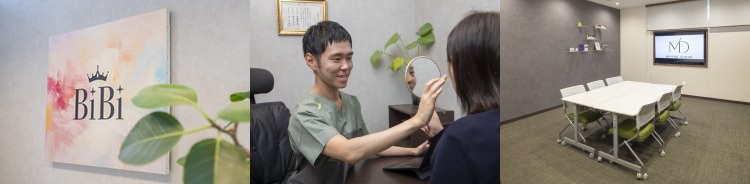
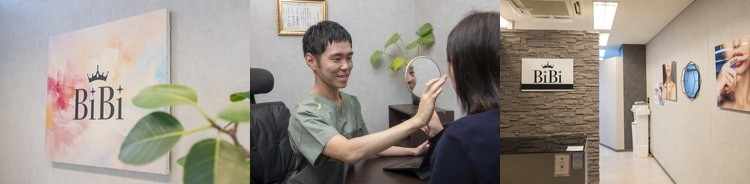
Figmaの最新内容に合わせて、アクセス・キャンペーン・写真を更新する

Changed region(s): [[0.644, 0.0, 1.0, 1.0]]

diff --git a/index.html b/index.html
@@ -215,7 +215,10 @@
                 <span class="campaign__line"></span>
               </div>
               <div class="campaign__body">
-                <p class="campaign__target">LINEご登録者限定</p>
+                <div class="campaign__limit">
+                  <p class="campaign__limitLabel">期間限定</p>
+                  <p class="campaign__limitDate">11月1日〜11月30日</p>
+                </div>
                 <div class="campaign__prices">
                   <p class="campaign__before">
                     <span class="campaign__beforeNum">¥495,000</span><small class="campaign__beforeTax">(税込)</small>
@@ -235,7 +238,7 @@
                   class="campaign__badge"
                 />
               </div>
-              <p class="campaign__note">※2026年11月1日〜2026年11月30日の期間に限る</p>
+              <p class="campaign__note">※LINEご登録者限定</p>
               <span class="campaign__line campaign__line--bottom"></span>
             </div>
           </div>
@@ -491,7 +494,7 @@
               />
               <div class="reason-card__body">
                 <h3 class="reason-card__title">卒業後も永久サポート付き！</h3>
-                <p class="reason-card__text reason-card__text--black">卒業後も、技術や働き方についてLINEで無料相談ができます。相談期間に制限はなく、活動を始めてから生まれる疑問や不安にも寄り添い、継続してサポートします。</p>
+                <p class="reason-card__text reason-card__text--black">卒業後も、技術や働き方について無料相談ができます。相談期間に制限はなく、活動を始めてから生まれる疑問や不安にも寄り添い、継続してサポートします。</p>
               </div>
             </div>
 
@@ -921,7 +924,10 @@
                 <span class="campaign__line"></span>
               </div>
               <div class="campaign__body">
-                <p class="campaign__target">LINEご登録者限定</p>
+                <div class="campaign__limit">
+                  <p class="campaign__limitLabel">期間限定</p>
+                  <p class="campaign__limitDate">11月1日〜11月30日</p>
+                </div>
                 <div class="campaign__prices">
                   <p class="campaign__before">
                     <span class="campaign__beforeNum">¥495,000</span><small class="campaign__beforeTax">(税込)</small>
@@ -943,7 +949,7 @@
                   class="campaign__badge"
                 />
               </div>
-              <p class="campaign__note">※2026年11月1日〜2026年11月30日の期間に限る</p>
+              <p class="campaign__note">※LINEご登録者限定</p>
               <span class="campaign__line campaign__line--bottom"></span>
             </div>
           </div>
@@ -1482,9 +1488,9 @@
 
           <img
             src="img/top/access_img.jpg"
-              loading="lazy"
-              decoding="async"
-            alt="NLC心斎橋 外観"
+            loading="lazy"
+            decoding="async"
+            alt="心斎橋スクールの入口"
             class="access__thumb"
           />
 
@@ -1500,10 +1506,19 @@
                   alt=""
                   class="access__icon"
                 />
-                <p class="access__text">
-                  大阪府大阪市中央区南船3丁目7-27<br />
-                  NLC心斎橋 3I
-                </p>
+                <div class="access__detail">
+                  <p class="access__text">
+                    大阪府大阪市中央区南船3丁目7-27<br />
+                    NLC心斎橋 3I
+                  </p>
+                  <a
+                    class="access__map"
+                    href="https://www.google.com/maps/search/?api=1&amp;query=%E5%A4%A7%E9%98%AA%E5%BA%9C%E5%A4%A7%E9%98%AA%E5%B8%82%E4%B8%AD%E5%A4%AE%E5%8C%BA%E5%8D%97%E8%88%B93%E4%B8%81%E7%9B%AE7-27+NLC%E5%BF%83%E6%96%8E%E6%A9%8B"
+                    target="_blank"
+                    rel="noopener noreferrer"
+                    >Googleマップ ＞</a
+                  >
+                </div>
               </div>
               <div class="access__item">
                 <img

diff --git a/style.css b/style.css
@@ -581,16 +581,31 @@ summary::-webkit-details-marker {
   align-items: center;
   gap: 16px;
 }
-.campaign__target {
-  font-size: 1.8rem;
-  font-weight: 500;
-  line-height: 1;
+.campaign__limit {
+  display: flex;
+  flex-direction: column;
+  align-items: center;
+  gap: 4px;
+}
+.campaign__limitLabel {
+  padding: 2px 6px;
+  font-size: 1.6rem;
+  font-weight: 600;
+  line-height: 1.1;
+  color: #216ca4;
+  background-color: #fff;
+}
+.campaign__limitDate {
+  font-size: 2rem;
+  font-weight: 600;
+  line-height: 1.1;
 }
 .campaign__prices {
   display: flex;
   flex-direction: column;
   align-items: center;
   gap: 4px;
+  margin-right: 96px;
 }
 .campaign__before {
   position: relative;
@@ -633,16 +648,15 @@ summary::-webkit-details-marker {
 }
 .campaign__badge {
   position: absolute;
-  top: -29px;
-  left: 264px;
-  width: 90.5px;
+  top: 26px;
+  left: 265px;
+  width: 98px;
 }
 .campaign__note {
-  font-size: 1.2rem;
-  font-weight: 300;
+  font-size: 1.4rem;
+  font-weight: 500;
   line-height: 1;
   text-align: center;
-  white-space: nowrap;
 }
 
 /* ============================================ */
@@ -2017,18 +2031,32 @@ summary::-webkit-details-marker {
 }
 .access__item {
   display: flex;
+  align-items: flex-start;
   gap: 16px;
 }
 .access__icon {
   flex-shrink: 0;
   width: 16px;
+  height: 23px;
 }
 .access__item + .access__item .access__icon {
   width: 17px;
+  height: 24px;
+}
+.access__detail {
+  display: flex;
+  flex-direction: column;
+  gap: 8px;
 }
 .access__text {
   font-size: 1.2rem;
   line-height: 1.7;
+}
+.access__map {
+  font-size: 1.2rem;
+  line-height: 1.7;
+  color: #717171;
+  text-decoration: underline;
 }
 
 /* ============================================ */
